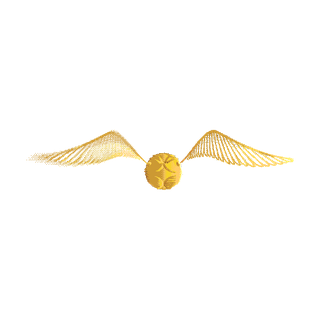
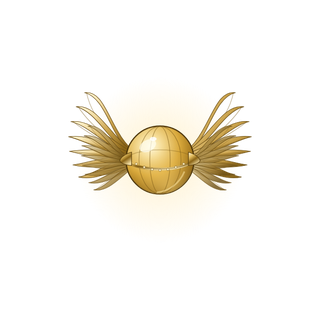
A figurinha do pomo ganha ilustracao propria
Antes ela usava um quadro do gif, que e desenho de animacao e nao arte de
carta. Agora e uma ilustracao feita para o album, no mesmo registro do
resto, bola de ouro com meridianos gravados, faixa rebitada no equador e
duas asas de pena em camadas.

A ilustracao oficial existe. E a carta 8 de 80 do conjunto Quidditch Cup do
Harry Potter Trading Card Game de 2001, que e a mesma fonte de varias
figurinhas do album. Nao consigo baixar imagem da internet daqui, entao
desenhei uma. Se a Betty pegar a oficial e puser na pasta, e uma linha para
trocar.

Claude-Session: https://claude.ai/code/session_01F1fLLuCoFrgz4tspvSLqSy

Changed region(s): [[0.0938, 0.2812, 0.9062, 0.6562]]

diff --git a/index.html b/index.html
@@ -6140,7 +6140,7 @@
   var FOTOS = {
         "Pomo de Ouro": {
               "src": "assets/figuras/pomo-de-ouro.png",
-              "fonte": "Quadro do pomo que voa no jornal"
+              "fonte": "Ilustração feita para o Prophet Watch"
         },
       "Albus Dumbledore": {
             "src": "assets/figuras/albus-dumbledore.jpg",
